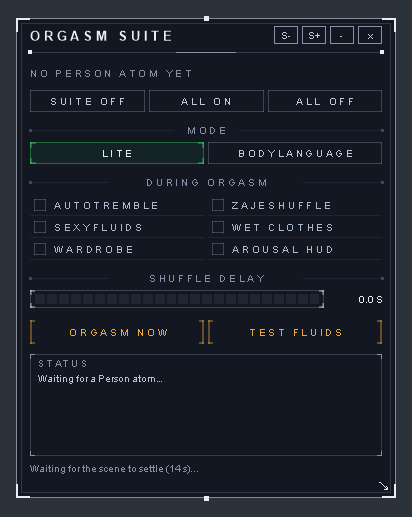
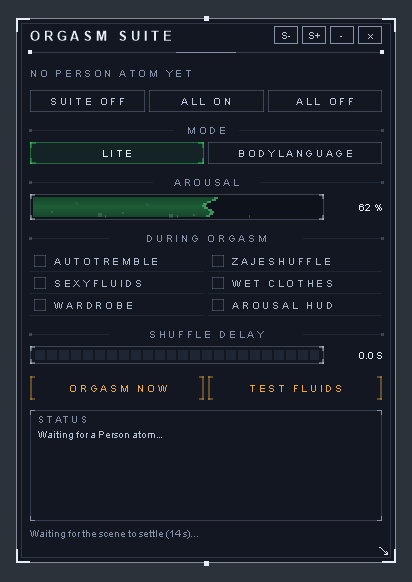
OrgasmSuite: liquid-fill level bar fed by the same value as the Arousal / Stimulation HUD

diff --git a/zerot/OrgasmSuite/OrgasmSuite.cs b/zerot/OrgasmSuite/OrgasmSuite.cs
@@ -62,10 +62,11 @@ namespace ZeroT.OrgasmSuite
 		private ConfigEntry<bool> _active, _females, _males, _autoAttach;
 		private ConfigEntry<float> _settle, _quiet;
 		private ConfigEntry<bool> _showWindow, _collapsed, _dpiAware;
+		private ConfigEntry<float> _previewFill;
 		private ConfigEntry<float> _scale, _winX, _winY, _winW, _winH;
 		private ConfigEntry<string> _lastUid;
 
-		private Rect _win = new Rect(60f, 140f, 380f, 480f);
+		private Rect _win = new Rect(60f, 140f, 380f, 545f);
 		private bool _dragging, _resizing;
 		private Vector2 _dragStartMouse, _dragStartPos, _resizeStartMouse, _resizeStartSize;
 		private const float MinW = 320f, MaxW = 640f, MinH = 260f, MaxH = 760f, CollapsedH = 34f;
@@ -104,8 +105,9 @@ namespace ZeroT.OrgasmSuite
 			_winX = Config.Bind("Window", "X", 60f, "Saved horizontal position.");
 			_winY = Config.Bind("Window", "Y", 140f, "Saved vertical position.");
 			_winW = Config.Bind("Window", "Width", 380f, "Saved width.");
-			_winH = Config.Bind("Window", "Height", 480f, "Saved height.");
+			_winH = Config.Bind("Window", "Height", 545f, "Saved height.");
 			_dpiAware = Config.Bind("Window", "DpiAware", true, "Scale with the monitor's DPI.");
+			_previewFill = Config.Bind("Window", "PreviewFill", -1f, "Show this level (0..1) in the liquid bar instead of the live value (for screenshots). -1 = live.");
 			_lastUid = Config.Bind("State", "LastPerson", "", "Person remembered across sessions.");
 			_win = new Rect(_winX.Value, _winY.Value, Mathf.Clamp(_winW.Value, MinW, MaxW), Mathf.Clamp(_winH.Value, MinH, MaxH));
 			_uid = _lastUid.Value ?? "";
@@ -477,9 +479,34 @@ namespace ZeroT.OrgasmSuite
 				attachedOne = Apply(a, mgr, hud, on && cfg.Hud, ref attachedOne, out s); st.AppendLine(hud.Label + ": " + s);
 				attachedOne = Apply(a, mgr, lite ? FullHud : LiteHud, false, ref attachedOne, out s);
 				_status[a.uid] = st.ToString();
+				_liquid[a.uid] = FindLiquid(a, lite);
 				PushBridgeSettings(a, cfg);
 			}
 			if (attachedOne) _nextScan = Time.realtimeSinceStartup + 0.8f;
+		}
+
+		// what the arousal / stimulation HUD shows: BodyLanguage Lite's "Arousal", BodyLanguage's "Stimulation"
+		private sealed class LiquidSrc { public MVRScript Script; public JSONStorableFloat Param; }
+		private readonly Dictionary<string, LiquidSrc> _liquid = new Dictionary<string, LiquidSrc>();
+
+		private LiquidSrc FindLiquid(Atom a, bool lite)
+		{
+			MVRScript m = Instance(a, lite ? Lite : Full);
+			if (m == null) return null;
+			JSONStorableFloat f = m.GetFloatJSONParam(lite ? "Arousal" : "Stimulation");
+			if (f == null) return null;
+			LiquidSrc l = new LiquidSrc();
+			l.Script = m; l.Param = f;
+			return l;
+		}
+
+		// 0..1, or -1 when the engine is not running on that Person
+		public float LiquidValue(string uid)
+		{
+			LiquidSrc l;
+			if (string.IsNullOrEmpty(uid) || !_liquid.TryGetValue(uid, out l) || l == null || l.Script == null || l.Param == null) return -1f;
+			float span = l.Param.max - l.Param.min;
+			return span > 0.0001f ? Mathf.Clamp01((l.Param.val - l.Param.min) / span) : Mathf.Clamp01(l.Param.val);
 		}
 
 		// ZajeShuffle is one script for the whole session: it stays while any managed Person still wants a shuffle on orgasm
@@ -749,6 +776,15 @@ namespace ZeroT.OrgasmSuite
 			if (Fx.Button(new Rect(x, y, ew, lh), "Lite", Fx.Lite, isLite, s) && cfg != null && !isLite) { cfg.Engine = "Lite"; changed = true; }
 			if (Fx.Button(new Rect(x + ew + gap, y, ew, lh), "BodyLanguage", Fx.Full, !isLite, s) && cfg != null && isLite) { cfg.Engine = "BodyLanguage"; changed = true; }
 			y += lh + 10f * s;
+
+			// ---- the level: a bar that fills with liquid, driven by the same value as the arousal / stimulation HUD
+			Fx.Section(new Rect(x, y, w, 16f * s), isLite ? "Arousal" : "Stimulation", s);
+			y += 20f * s;
+			float lv = _previewFill.Value >= 0f ? _previewFill.Value : LiquidValue(_uid);
+			float pw = 54f * s;
+			Fx.Liquid(new Rect(x, y, w - pw - gap, 26f * s), Mathf.Max(0f, lv), side, s, 7100);
+			Fx.Text(new Rect(x + w - pw, y, pw, 26f * s), lv < 0f ? "-- %" : Mathf.RoundToInt(lv * 100f) + " %", small, TextAnchor.MiddleRight, Fx.Ink, false);
+			y += 26f * s + 10f * s;
 
 			// ---- what happens during an orgasm: one switch per module, in the colour of the side
 			float hw = (w - gap) / 2f;

diff --git a/zerot/OrgasmSuite/FutureSkin.cs b/zerot/OrgasmSuite/FutureSkin.cs
@@ -216,6 +216,67 @@ namespace ZeroT.OrgasmSuite
 			Corners(r, Dim, 5f * s, 1f);
 		}
 
+
+		private static readonly Dictionary<int, float> shown = new Dictionary<int, float>();
+
+		// a bar that fills with liquid: the level eases to the real value, the leading edge ripples, bubbles rise inside, a bright skin rides the surface.
+		// v is 0..1 (the same number the arousal / stimulation HUD shows); full level pulses amber.
+		internal static void Liquid(Rect r, float v, Color accent, float s, int id)
+		{
+			float now = Time.realtimeSinceStartup;
+			float cur;
+			if (!shown.TryGetValue(id, out cur)) cur = v;
+			cur += (v - cur) * 0.12f;                 // eases, so a jump reads as the liquid rising
+			if (Mathf.Abs(v - cur) < 0.002f) cur = v;
+			shown[id] = cur;
+
+			Fill(r, new Color(0.03f, 0.045f, 0.07f, 1f));
+			float pad = 3f * s;
+			Rect tank = new Rect(r.x + pad, r.y + pad, r.width - 2f * pad, r.height - 2f * pad);
+			float full = Mathf.Clamp01(cur);
+			bool nearFull = full > 0.94f;
+			float pulse = nearFull ? 0.5f + 0.5f * Mathf.Sin(now * 7f) : 0f;
+			Color deep = Color.Lerp(new Color(accent.r * 0.45f, accent.g * 0.45f, accent.b * 0.45f, 1f), new Color(Amber.r * 0.6f, Amber.g * 0.6f, Amber.b * 0.6f, 1f), pulse);
+			Color skin = Color.Lerp(new Color(Mathf.Min(1f, accent.r + 0.25f), Mathf.Min(1f, accent.g + 0.25f), Mathf.Min(1f, accent.b + 0.25f), 1f), Amber, pulse);
+			Color mid = Color.Lerp(accent, Amber, pulse);
+
+			float rowH = Mathf.Max(2f, Mathf.Round(2f * s));
+			int rows = Mathf.Max(1, Mathf.FloorToInt(tank.height / rowH));
+			float edgeBase = tank.width * full;
+			for (int i = 0; i < rows; i++)
+			{
+				float y = tank.y + i * rowH;
+				// the leading edge is a wave that travels up the bar; it dies out when the bar is empty or full
+				float amp = Mathf.Min(edgeBase, tank.width - edgeBase, 7f * s) * 0.5f + (full > 0.001f && full < 0.999f ? 1.2f * s : 0f);
+				float w = edgeBase + amp * Mathf.Sin(i * 0.9f - now * 3.2f) + 0.6f * amp * Mathf.Sin(i * 0.35f + now * 1.7f);
+				w = Mathf.Clamp(w, 0f, tank.width);
+				if (full <= 0.001f) w = 0f;
+				if (w <= 0f) continue;
+				// a vertical shade: lighter in the middle rows
+				float depth = 1f - Mathf.Abs((i + 0.5f) / rows - 0.5f) * 2f;
+				Color body = Color.Lerp(deep, mid, 0.45f + 0.5f * depth);
+				Fill(new Rect(tank.x, y, w, rowH), body);
+				float skinW = Mathf.Min(w, 4f * s);
+				Fill(new Rect(tank.x + w - skinW, y, skinW, rowH), skin);
+			}
+			// bubbles rising inside the liquid
+			for (int b = 0; b < 7; b++)
+			{
+				float fx = (b * 0.137f + 0.09f) % 1f;
+				float bx = tank.x + fx * Mathf.Max(0f, edgeBase - 6f * s) + 2f * s;
+				float speed = 0.22f + (b % 3) * 0.09f;
+				float t01 = (now * speed + b * 0.31f) % 1f;
+				float by = tank.yMax - t01 * tank.height;
+				float size = (2f + (b % 3)) * s;
+				if (bx + size < tank.x + edgeBase - 5f * s && edgeBase > 10f * s)
+					Fill(new Rect(bx, by, size, size), new Color(1f, 1f, 1f, 0.45f * (1f - t01)));
+			}
+			// gauge ticks at 25 / 50 / 75 %
+			for (int k = 1; k <= 3; k++) VLine(tank.x + tank.width * k * 0.25f, r.yMax - 2f * s - 3f * s, 3f * s, Dim, 1f);
+			Outline(r, Dim, 1f);
+			Corners(r, Ink, 5f * s, 2f);
+		}
+
 		// the window itself: ground, double frame, bracket corners, node dots on the top and bottom edge
 		internal static void Window(Rect r, float s, bool collapsed)
 		{

diff --git a/zerot/UiSim/VamSim/SuiteScenario.cs b/zerot/UiSim/VamSim/SuiteScenario.cs
@@ -288,6 +288,14 @@ public static class SuiteScenario
 		int shuffles0 = uia.buttonList.Sum(b => b.Invoked);
 		var liteW = Script(woman, "BodyLanguage_Lite");
 		h.Check(liteW.GetFloatJSONParam("Arousal") != null, "BodyLanguage Lite exposes Arousal");
+		// the liquid bar shows the value the arousal HUD shows
+		var lvT = h.Plugin.GetType().GetMethod("LiquidValue");
+		liteW.GetFloatJSONParam("Arousal").val = 0.40f;
+		St(h, 2f);
+		float lvNow = (float)lvT.Invoke(h.Plugin, new object[] { "Woman" });
+		var arP = liteW.GetFloatJSONParam("Arousal");
+		h.Check(Math.Abs(lvNow - Math.Max(0f, Math.Min(1f, (arP.val - arP.min) / (arP.max - arP.min)))) < 0.001f && lvNow > 0.3f, "the liquid level is the Lite arousal (" + lvNow.ToString("0.00") + ")");
+		h.Check((float)lvT.Invoke(h.Plugin, new object[] { "NoSuchPerson" }) < 0f, "...and shows nothing for a Person without the engine");
 		h.Check(Orgasm(h, woman), "FluidBridge saw Woman's orgasm exactly once (BodyLanguage Lite)");
 		bool trembling = trW.GetBoolJSONParam("Active").val;
 		h.Check(trembling, "AutoTremble on Woman started with the orgasm");
